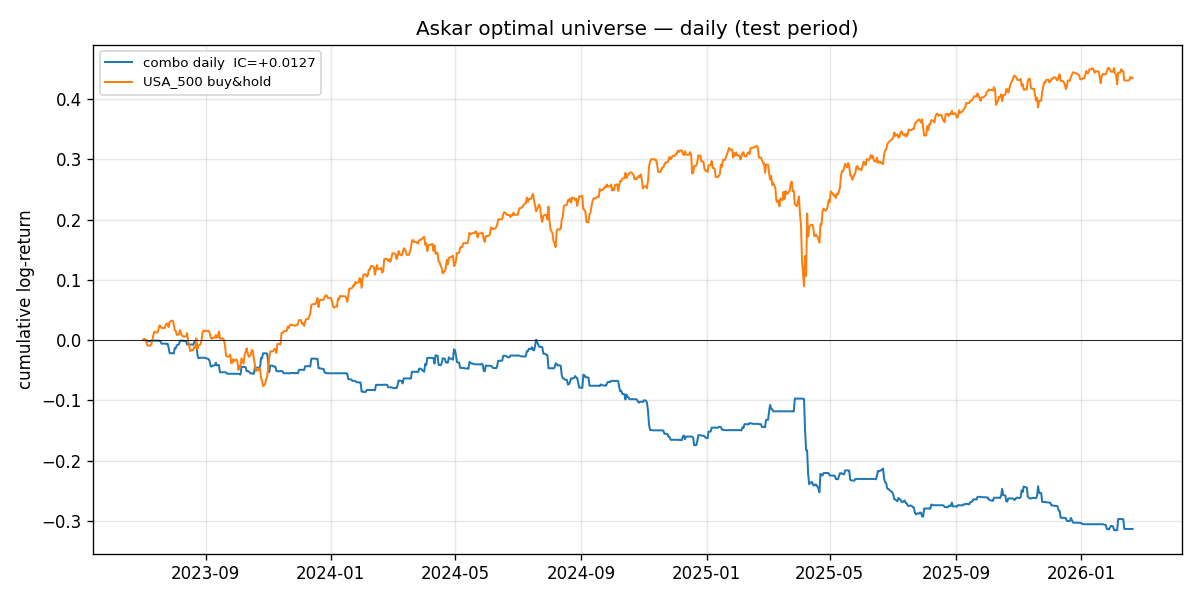
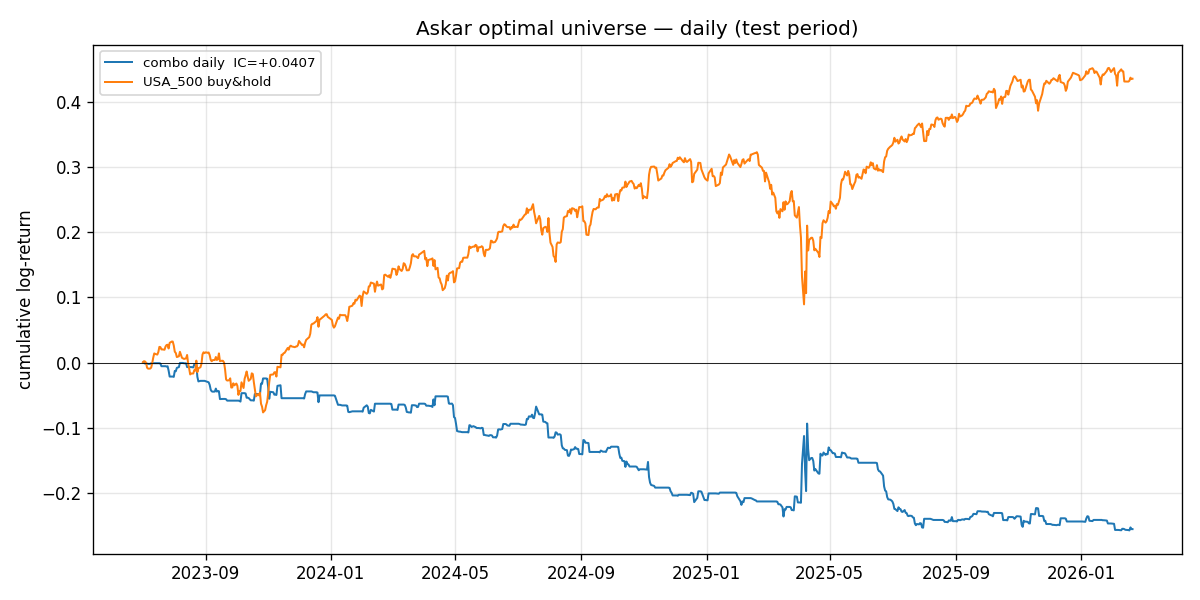
fix(askar/optimal): two P1 bugs flagged by Codex review
Both fixes change what load_universe() returns, so every downstream
metric (IC, Sharpe, permutation p, walk-forward folds, crisis return)
is recomputed and results/askar_optimal_result.json is refreshed.

1) Anchor hourly panel on non-forward-filled target bars
-------------------------------------------------------
Previously:
    prices_hourly_ff = prices_hourly_raw.ffill(limit=36)   # ffill target too
    anchor_mask = prices_hourly_ff[TARGET_FILENAME].notna()
    prices_hourly = prices_hourly_ff.loc[anchor_mask].dropna()

Bug: forward-filling USA_500 carried its last known price for up to
36 hours, so any timestamp inside that carry window was treated as an
anchor-live bar. Hourly returns on those rows collapsed to log(P/P)=0,
injecting streams of synthetic zero returns into the ReturnHourly panel
and distorting IC / Sharpe / permutation metrics.

Fix: only the non-target columns get ffill; the target is left raw,
and anchor_mask is built from prices_hourly_raw[TARGET] before the
fill. Only timestamps where USA_500 was genuinely live are kept.

2) Drop post-gap *returns*, not post-gap price rows
----------------------------------------------------
Previously:
    day_gap = pd.Series(prices_daily.index).diff().dt.days
    prices_daily = prices_daily.loc[day_gap.isna() | (day_gap <= 5)]
    log_arr_d = np.log((prices_daily / prices_daily.shift(1)).to_numpy())

Bug: after dropping the price row right after a long hole, the
[…]

diff --git a/research/askar/optimal_universe.py b/research/askar/optimal_universe.py
@@ -120,13 +120,17 @@ def load_universe(
     # Session asynchrony fix: asset sessions don't overlap perfectly
     # (e.g. China_A50 closes before US ETFs open), so a strict inner-join
     # .dropna() kills multi-day blocks whenever any single asset has a
-    # session gap. We forward-fill each column up to 36 hours — covers
-    # long holidays and Asian→US session handoffs without ever looking
-    # into the future — then anchor the panel on the target (USA_500)
-    # rows where USA_500 is live and every other asset has a carried
-    # (or live) price.
-    prices_hourly_ff = prices_hourly_raw.ffill(limit=36)
-    anchor_mask = prices_hourly_ff[TARGET_FILENAME].notna()
+    # session gap. Every non-target column is forward-filled up to 36
+    # hours — covers long holidays and Asian→US session handoffs without
+    # ever looking into the future — while the target column is left
+    # UNTOUCHED. We then anchor the panel on the *raw* target timestamps
+    # (where USA_500 was genuinely live) so no bar is kept just because
+    # the anchor was stale-filled; only those timestamps that still have
+    # every non-target asset present (live or carried) survive .dropna().
+    non_target_cols = [f for f, _ in UNIVERSE if f != TARGET_FILENAME]
+    prices_hourly_ff = prices_hourly_raw.copy()
+    prices_hourly_ff[non_target_cols] = prices_hourly_ff[non_target_cols].ffill(limit=36)
+    anchor_mask = prices_hourly_raw[TARGET_FILENAME].notna()
     prices_hourly = prices_hourly_ff.loc[anchor_mask].dropna()
 
     assert (
@@ -141,17 +145,23 @@ def load_universe(
 
     # Daily resample — use last close of day, then drop any remaining NaN rows.
     prices_daily = prices_hourly.resample("1D").last().dropna()
-    # Gap filter: remove daily rows produced after a break > 5 calendar days.
-    # Such rows always follow a data hole (holiday stack, dataset gap) and
-    # their "log-return" blends multiple market moves into one bar — exactly
-    # the kind of outlier that poisons the rolling z-score.
-    day_gap = pd.Series(prices_daily.index).diff().dt.days
-    keep = (day_gap.isna() | (day_gap <= 5)).to_numpy()
-    prices_daily = prices_daily.loc[keep]
+
+    # Compute daily log-returns on the *unfiltered* price frame so every
+    # return connects genuinely adjacent daily closes. Then drop the
+    # returns whose underlying timestamp gap exceeds 5 calendar days —
+    # those rows are the ones that blend multiple sessions into one bar
+    # and poison the rolling z-score. Applying the filter to returns (not
+    # to prices) means the filtered return is physically removed rather
+    # than being re-created by bridging shift(1) over the discarded row.
     log_arr_d = np.log((prices_daily / prices_daily.shift(1)).to_numpy())
-    returns_daily = pd.DataFrame(
+    returns_daily_all = pd.DataFrame(
         log_arr_d, index=prices_daily.index, columns=prices_daily.columns
     ).dropna()
+    ret_gap_days = pd.Series(returns_daily_all.index).diff().dt.days.to_numpy()
+    # First return has NaN gap (no previous row); keep it — it's not
+    # bridging a hole, it's just the start of the sample.
+    keep_returns = np.array([True if (g != g) else bool(g <= 5) for g in ret_gap_days], dtype=bool)
+    returns_daily = returns_daily_all.loc[keep_returns]
 
     print(
         f"Universe: {returns_hourly.shape[1]} assets | "
